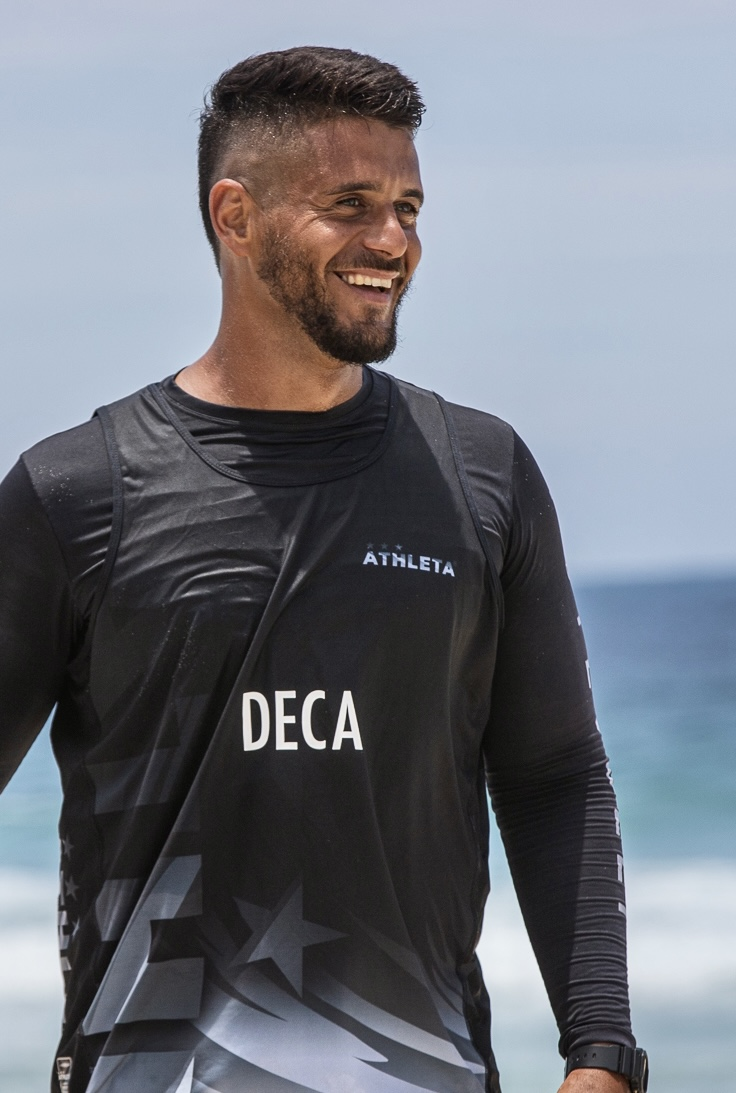
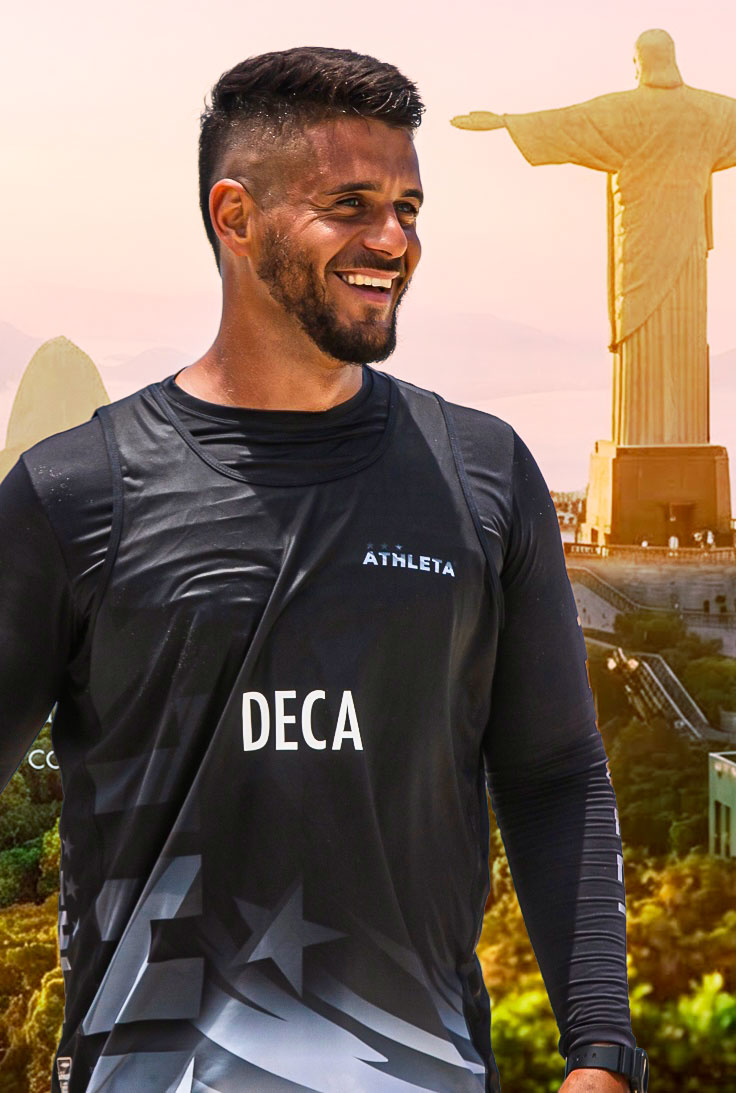
Foto nova do hero: montagem do Rio com o Cristo no lugar da praia
Mesmo enquadramento e mesmas medidas (736x1093), so o fundo mudou: era mar
e praia, virou montagem do Rio com o Cristo dourado a direita. Como pose e
posicao do Charllove sao as mesmas, o object-top continua correto e nao
mexi em codigo.

Conferi o recorte em quatro alturas de tela: ate 1080px a largura inteira
da foto aparece e o Cristo fica completo, porque a coluna e mais larga que
a proporcao do retrato e o cover escala pela largura. Acima de ~1200px a
coluna passa a ser mais alta, o cover comeca a aparar as laterais e o braco
direito do Cristo sai do quadro. Deixei assim de proposito: corrigir com
deslocamento horizontal empurraria o Charllove para debaixo da manchete.

Verificado no navegador em 1520x900 e 1520x1450.

diff --git a/components/Hero.tsx b/components/Hero.tsx
@@ -88,11 +88,18 @@ export default function Hero() {
           em porcentagem. A arte mudou em set/2026: era um banner deitado de
           2:1, com o Charllove à esquerda e o lettering MÉTODO LLOVE à
           direita, e virou um retrato EM PÉ (736x1093) com ele centralizado e
-          o mar atrás. Some a faixa creme do lettering, que era o que os
-          recortes antigos fugiam, e entra um problema novo: numa caixa mais
-          larga que alta, o `cover` de um retrato corta em cima e embaixo, e
-          centralizado ele decepava o alto da cabeça. Ancorar no topo mantém
-          rosto e tronco, que é o que a foto tem para dizer. */}
+          uma montagem do Rio atrás, com o Cristo dourado à direita. Some a
+          faixa creme do lettering, que era o que os recortes antigos fugiam,
+          e entra um problema novo: numa caixa mais larga que alta, o `cover`
+          de um retrato corta em cima e embaixo, e centralizado ele decepava o
+          alto da cabeça. Ancorar no topo mantém rosto e tronco, que é o que a
+          foto tem para dizer.
+
+          O Cristo do fundo fica inteiro até cerca de 1200px de altura de
+          tela: daí para cima a coluna fica mais alta que a proporção da foto,
+          o `cover` passa a aparar as laterais e o braço direito dele começa a
+          sair do quadro. Não vale corrigir com deslocamento horizontal, que
+          empurraria o Charllove para debaixo da manchete. */}
       <div className="relative h-[52vh] max-h-[26rem] w-full lg:hidden">
         <Foto
           src="/HERO-DESKTOP.jpg"
